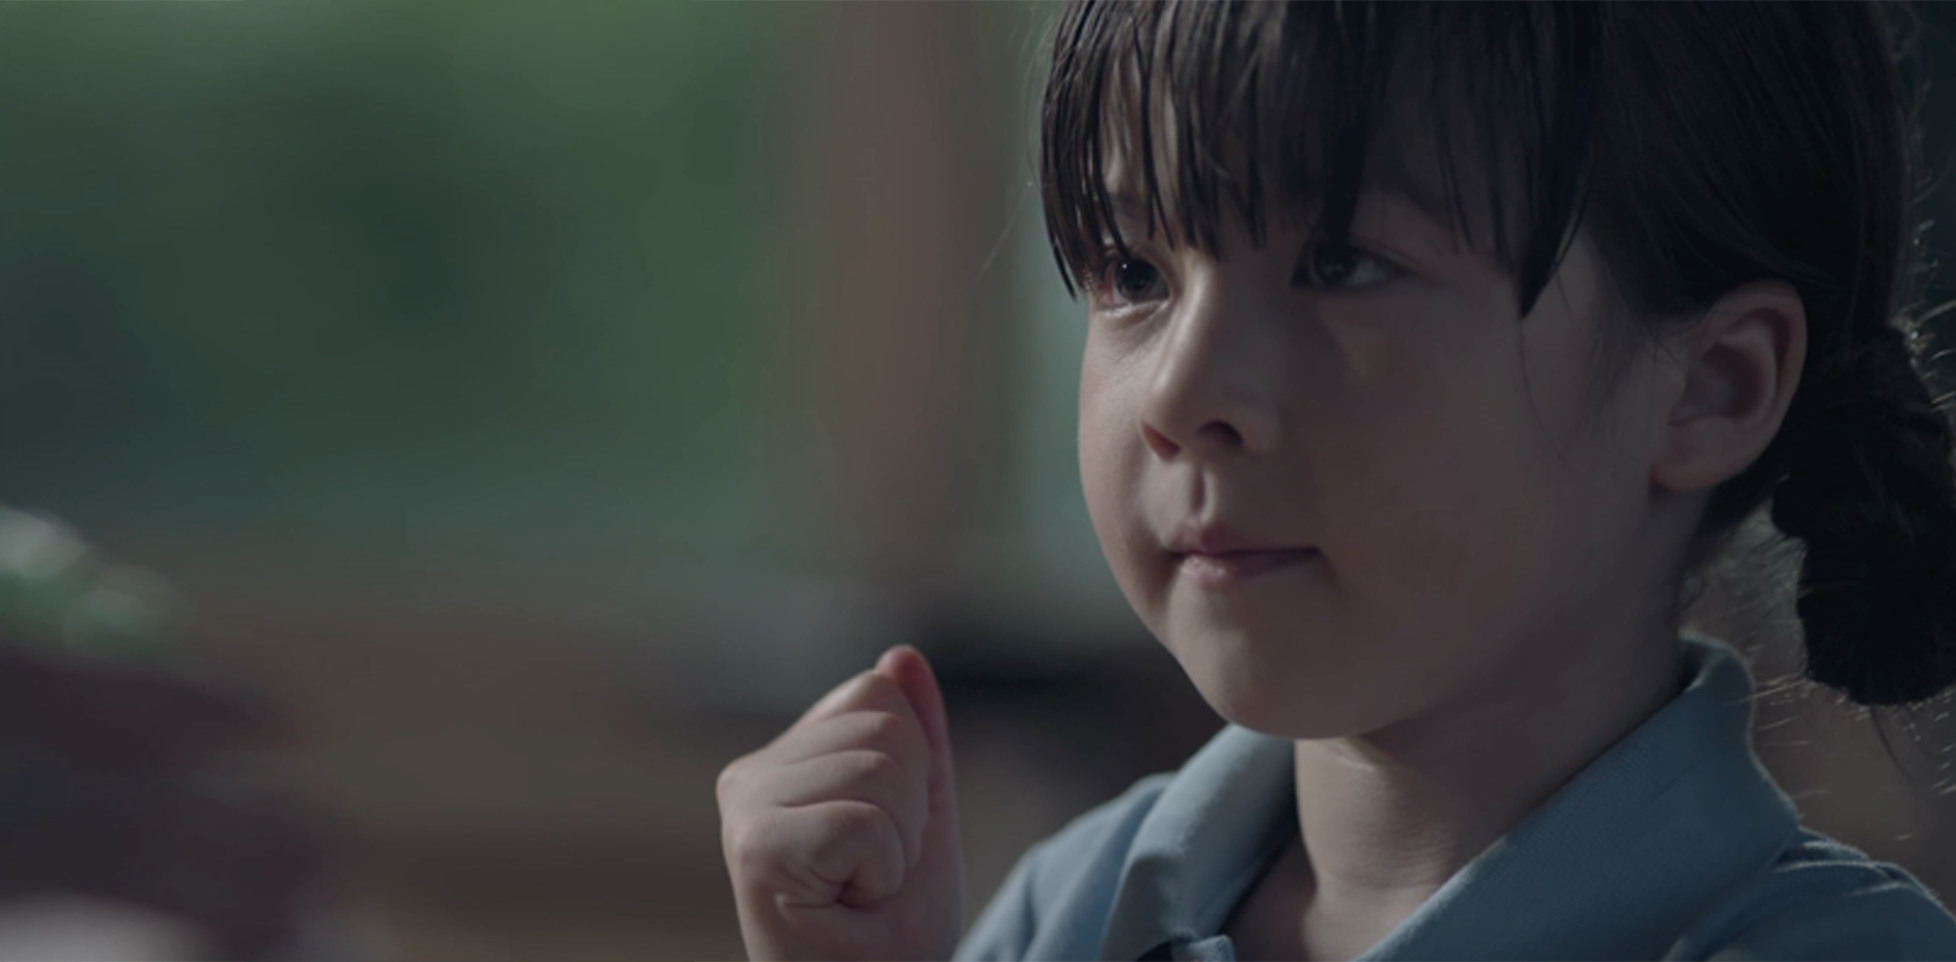
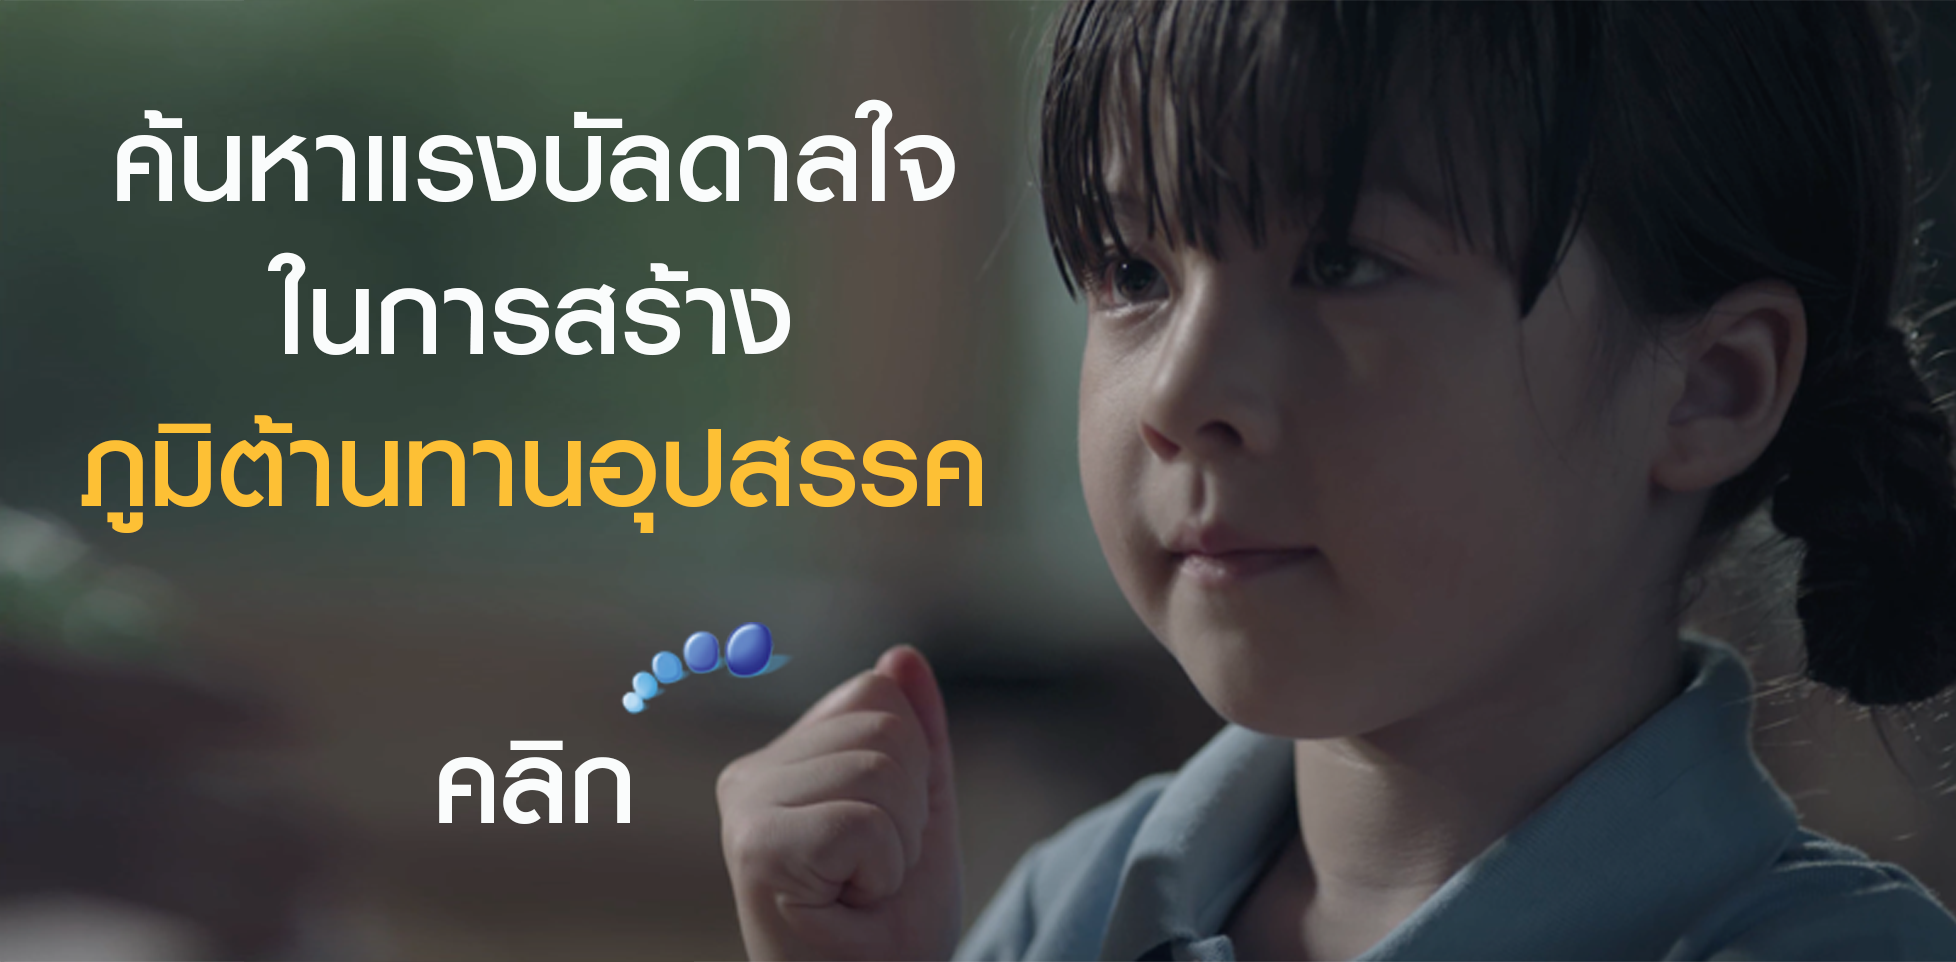
FIX OVERALL PAGE

diff --git a/index.html b/index.html
@@ -18,73 +18,83 @@
 <!-- background -->
 <div class="backgorund-img"><img src="assets/img/background.png"></div>
 
-
 <!-- video -->
 <div class="container">
+
     <!-- 16:9 aspect ratio -->
-    <div class="embed-responsive embed-responsive-16by9 video-box">
-        <iframe class="embed-responsive-item" src="..."></iframe>
+    <div class="row">
+        <div class="col-md-10 offset-md-1 col-sd-12">
+            <div class="video-box">
+                <div class="embed-responsive embed-responsive-21by9">
+                    <iframe class="embed-responsive-item" src="https://www.youtube.com/embed/zpOULjyy-n8?rel=0" allowfullscreen></iframe>
+                </div>
+            </div>
+        </div>
     </div>
-    <div class="content-header text-center">
-        <h2 class="text-shadow-black">เริ่มต้นภาษาที่สมอง<br>พร้อมสร้างภูมิต้านทานอุปสััค</h2>
-        <p class="text-shadow-black">โดย ดร. วรนาท รักสกุลไทย</p>
+    <div class="row">
+        <div class="col-md-12 col-xs-8 offset-xs-2">
+            <div class="content-header text-center">
+                <img src="assets/img/text1.png">
+            </div>
+        </div>
     </div>
+
 </div>
 
 <!-- main -->
-<div class="container">
-    <div class="content-box">
-        <h1 class="text-shadow-black">Text messaging</h1>
-        <ul>
-            <li>
-                <p>Text messaging, or texting, is the act of composing and sending electronic messages, typically
-                    consisting of alphabetic and numeric characters, between two or more users of mobile phones,
-                    tablets, desktops/laptops, or other devices. Text messages may be sent over a cellular network, or
-                    may also be sent via an Internet connection.</p>
-            </li>
-            <li>
-                <p>The term originally referred to messages sent using the Short Message Service (SMS). It has grown
-                    beyond alphanumeric text to include multimedia messages (known as MMS) containing digital images,
-                    videos, and sound content, as well as ideograms known as emoji (happy faces, sad faces, and other
-                    icons).</p>
-            </li>
-        </ul>
-    </div>
-    <div class="content-box">
-        <h1>Practice at home</h1>
-        <ul>
-            <li>
-                <p>Text messaging, or texting, is the act of composing and sending electronic messages, typically
-                    consisting of alphabetic and numeric characters, between two or more users of mobile phones,
-                    tablets, desktops/laptops, or other devices. Text messages may be sent over a cellular network, or
-                    may also be sent via an Internet connection.</p>
-            </li>
-            <li>
-                <p>The term originally referred to messages sent using the Short Message Service (SMS). It has grown
-                    beyond alphanumeric text to include multimedia messages (known as MMS) containing digital images,
-                    videos, and sound content, as well as ideograms known as emoji (happy faces, sad faces, and other
-                    icons).</p>
-            </li>
-        </ul>
-        <div class="text-center">
-            <input type="button" value="Click to learn more">
+<div class="container-fluid">
+    <div class="row">
+        <div class="col-md-10 offset-md-1">
+            <div class="content-box">
+                <h1 class="text-shadow-black">Text messaging</h1>
+                <ul>
+                    <li>
+                        <p>Text messaging, or texting, is the act of composing and sending electronic messages, typically
+                            consisting of alphabetic and numeric characters, between two or more users of mobile phones,
+                            tablets, desktops/laptops, or other devices. Text messages may be sent over a cellular network, or
+                            may also be sent via an Internet connection.</p>
+                    </li>
+                    <li>
+                        <p>The term originally referred to messages sent using the Short Message Service (SMS). It has grown
+                            beyond alphanumeric text to include multimedia messages (known as MMS) containing digital images,
+                            videos, and sound content, as well as ideograms known as emoji (happy faces, sad faces, and other
+                            icons).</p>
+                    </li>
+                </ul>
+            </div>
+            <div class="content-box">
+                <h1>Practice at home</h1>
+                <ul>
+                    <li>
+                        <p>Text messaging, or texting, is the act of composing and sending electronic messages, typically
+                            consisting of alphabetic and numeric characters, between two or more users of mobile phones,
+                            tablets, desktops/laptops, or other devices. Text messages may be sent over a cellular network, or
+                            may also be sent via an Internet connection.</p>
+                    </li>
+                    <li>
+                        <p>The term originally referred to messages sent using the Short Message Service (SMS). It has grown
+                            beyond alphanumeric text to include multimedia messages (known as MMS) containing digital images,
+                            videos, and sound content, as well as ideograms known as emoji (happy faces, sad faces, and other
+                            icons).</p>
+                    </li>
+                </ul>
+                <div class="text-center">
+                    <input type="button" value="Click to learn more">
+                </div>
+            </div>
         </div>
     </div>
 </div>
 
 <!-- jombo -->
-<div class="container">
-    <div class="thumbnail text-center">
-        <img src="assets/brand/banner.png" alt="" class="img-fluid">
-        <div class="caption-header">
-            <h1 class="text-shadow-black">The term originally referred to<br>messages sent using the Short <br><span>Message Service (SMS)</span>
-            </h1>
-        </div>
-        <div class="caption-text">
-            <h1 class="text-shadow-black">Click</h1>
+<div class="container-fluid">
+    <div class="row">
+        <div class="col-md-8 offset-md-2 col-xs-12">
+            <img src="assets/brand/banner.png" alt="" class="img-fluid">
         </div>
     </div>
 </div>
+
 
 
 <!-- Optional JavaScript -->

diff --git a/assets/css/style.css b/assets/css/style.css
@@ -1,3 +1,12 @@
+body{
+    margin: 0;
+    padding: 0;
+    min-height: 100%;
+    background-color: #fff;
+    font-family: Arial, sans-serif;
+    color: #333;
+}
+
 .backgorund-img > img{
     width: 100%;
     background-repeat: no-repeat;
@@ -11,25 +20,20 @@
     border: 10px solid rgb(139,186,221);
 }
 
-.content-header{
-    width: 90%;
-    margin: 35px auto 150px auto;
+.content-header > img{
+    width: 80%;
+    height: auto;
+    margin-top: 10px;
+    margin-bottom: 290px;
 }
 
 .text-shadow-black{
     text-shadow: 1px 1px rgba(0,0,0,0.5);
 }
 
-.content-header > h2{
-    background: -webkit-linear-gradient(0deg, rgb(197,174,80),rgb(230,217,133), rgb(197,174,80),rgb(230,217,133));
-    -webkit-background-clip: text;
-    -webkit-text-fill-color: transparent;
-    font-size: 50px;
-}
-
 .content-header > p{
     color: white;
-    font-size: 35px;
+    font-size: 160%;
 }
 
 .content-box:nth-child(odd){
@@ -73,6 +77,10 @@
     padding-top: 20px;
 }
 
+.col-md-8 ,.offset-md-2 ,.col-xs-12{
+    padding: 0;
+}
+
 input[type="button"]{
     padding: 7.5px 35px;
     border-radius: 19px;
@@ -81,113 +89,51 @@ input[type="button"]{
     background: linear-gradient( 0deg, rgb(15,75,143), rgb(255,255,255));
 }
 
-.thumbnail {
-    position: relative;
-}
-
-.caption-header {
-    position: absolute;
-    top: 10%;
-    left: -20%;
-    width: 100%;
-}
-
-.caption-header > h1{
-    color: white;
-    font-size: 35px;
-}
-
-.caption-header > h1 > span{
-    color: rgb(230,217,133);
-}
-
-.caption-text{
-    position: absolute;
-    top: 80%;
-    left: -20%;
-    width: 100%;
-}
-
-.caption-text > h1{
-    color: white;
-    font-size: 35px;
-}
-@media only screen and (max-width: 992px){
-    .content-header > h2{
-        font-size: 30px;
+@media only screen and (max-width: 992px) {
+    .content-header > img{
+        width: 90%;
+        height: auto;
     }
 
-    .content-header > p{
-        font-size: 25px;
+    .video-box{
+        border: 7px solid rgb(139,186,221);
     }
 
-    .caption-header > h1{
-        font-size: 23px;
-    }
-
-
-    .caption-text > h1{
-        color: white;
-        font-size: 23px;
+    .content-header > img{
+        margin-top: 10px;
+        margin-bottom: 90px;
     }
 }
 
+@media only screen and (max-width: 773px) {
+    .content-header > img{
+        margin-top: 10px;
+        margin-bottom: 160px;
+    }
+}
 
-@media only screen and (max-width: 768px){
-    .nav-link{
-        border-right: none;
+@media only screen and (max-width: 700px) {
+    .content-header > img{
+        margin-top: 10px;
+        margin-bottom: 90px;
+    }
+}
+
+@media only screen and (max-width: 580px) {
+    .video-box{
+        border: 6px solid rgb(139,186,221);
+    }
+    .content-header > img{
+        margin: 0;
     }
 
-    .content-header{
-        margin: 10px auto 90px auto;
-    }
-
-    .content-header > h2{
-        font-size: 28px;
-    }
-
-    .content-header > p{
-        font-size: 23px;
+    .content-box:nth-child(even) > ul,.content-box:nth-child(even) > ul > li > p,.content-box:nth-child(odd) > ul > li > p,.content-box:nth-child(odd){
+        font-size: 15px;
     }
 
     .content-box:nth-child(odd) > h1,.content-box:nth-child(even) > h1{
-        font-size: 37px;
-    }
-
-    .content-box:nth-child(odd) > ul,.content-box:nth-child(even) > ul,.content-box:nth-child(even) > ul > li > p,.content-box:nth-child(odd) > ul > li > p{
-        font-size: 16px;
-    }
-
-
-    .caption-header {
-        left: 0;
-    }
-
-    .caption-header > h1{
-        font-size: 18px;
-    }
-
-    .caption-text{
-        left: 0;
-    }
-
-    .caption-text > h1{
-        color: white;
-        font-size: 18px;
-    }
-
-    input[type="button"]{
-        margin-top: 50px;
+        font-size: 25px;
     }
 }
 
-@media only screen and (max-width: 768px){
-    .content-header > h2{
-        font-size: 24px;
-    }
-
-    .content-header > p{
-        font-size: 20px;
-    }
-}
 
